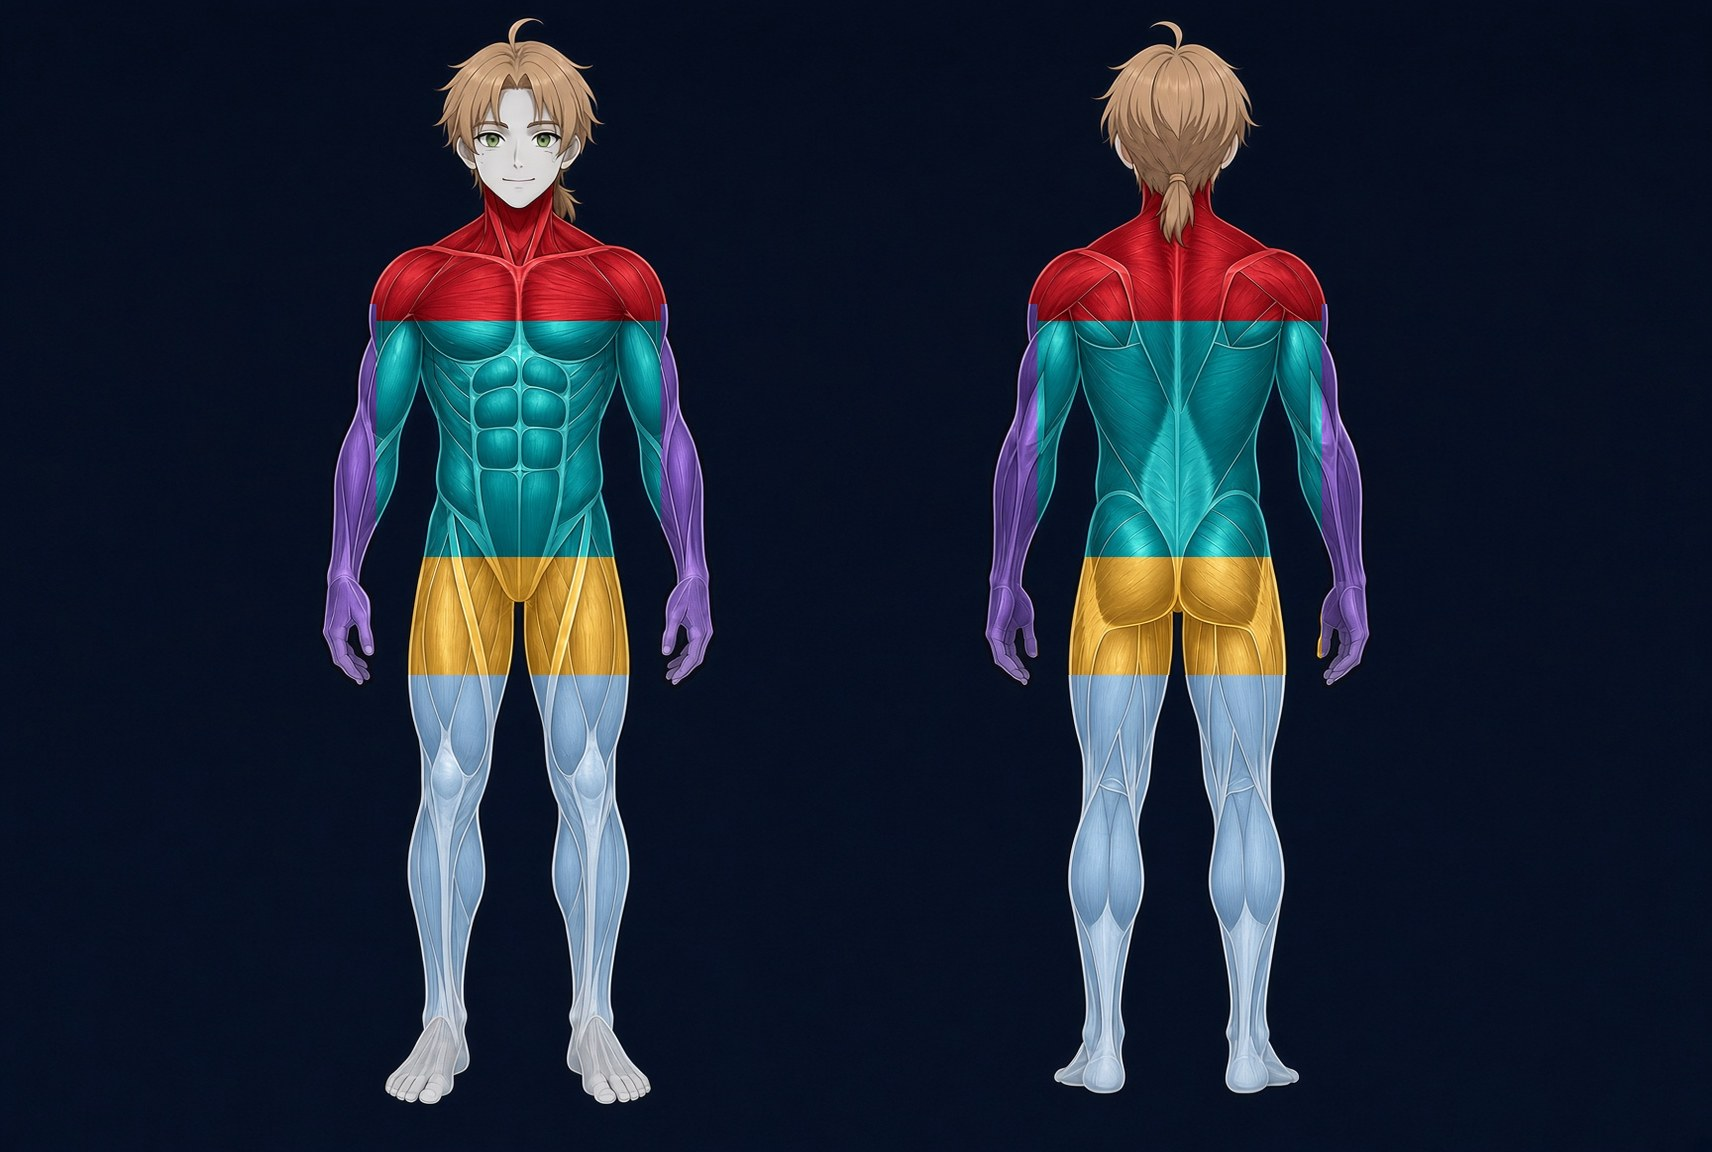
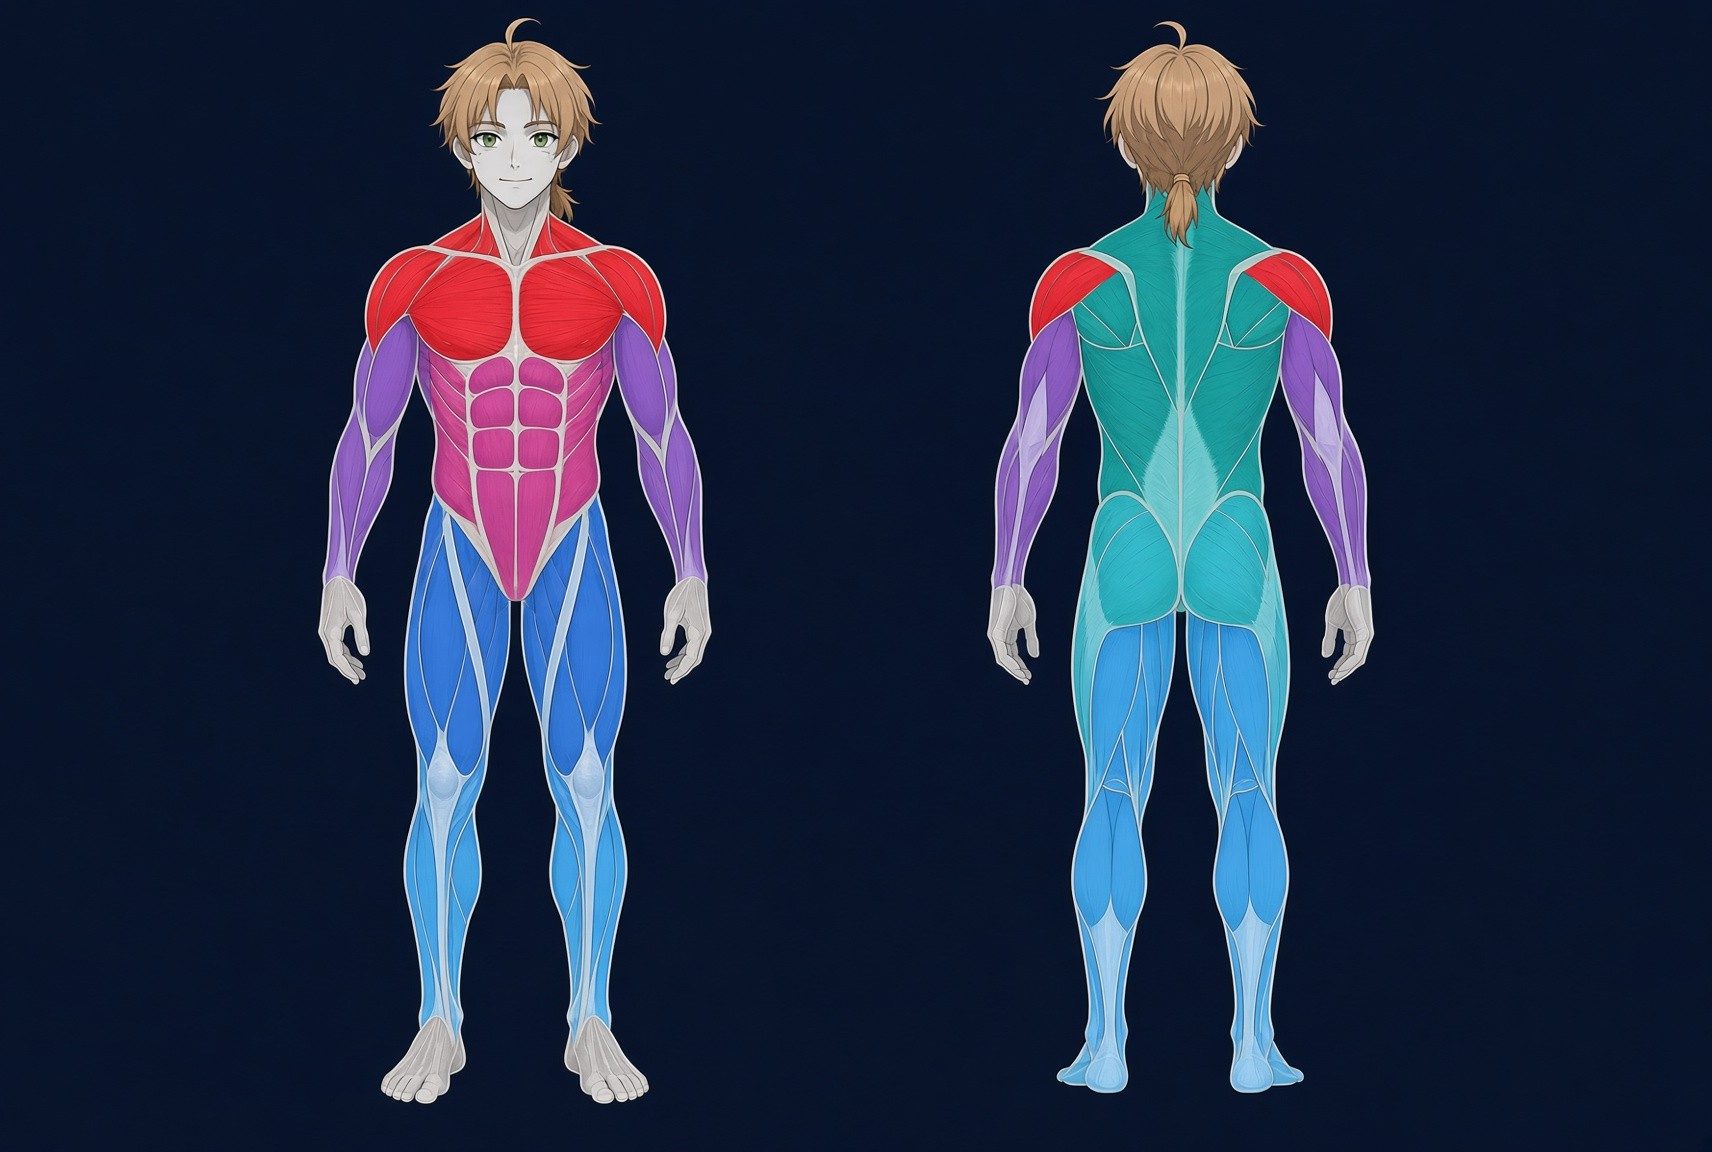
Use user's multi-color muscle image for multi.jpg; cache v8

Changed region(s): [[0.1857, 0.0, 0.4334, 0.9688], [0.5572, 0.0312, 0.8049, 0.9688]]

diff --git a/sw.js b/sw.js
@@ -1,5 +1,5 @@
 // Godrank offline cache: app shell precached, everything else (fonts) cached on first use.
-const V='godrank-v7';
+const V='godrank-v8';
 const SHELL=['./','index.html','manifest.webmanifest','badges.js','godfx.js','anatomy-shapes.js','anatomy.js','exercises.js','illustrations.js','planner.js','voidbg.js',
   'assets/anatomy.jpg','assets/ranks/north.jpg','assets/ranks/sword.jpg','assets/ranks/death.jpg','assets/ranks/demon.jpg','assets/ranks/fighting.jpg','assets/ranks/dragon.jpg','assets/ranks/technique.jpg','assets/ranks/multi.jpg','assets/rudeus.jpg','assets/icons/icon-180.png','assets/icons/icon-192.png','assets/icons/icon-512.png'];
 self.addEventListener('install',e=>{e.waitUntil(caches.open(V).then(c=>c.addAll(SHELL)));self.skipWaiting()});
